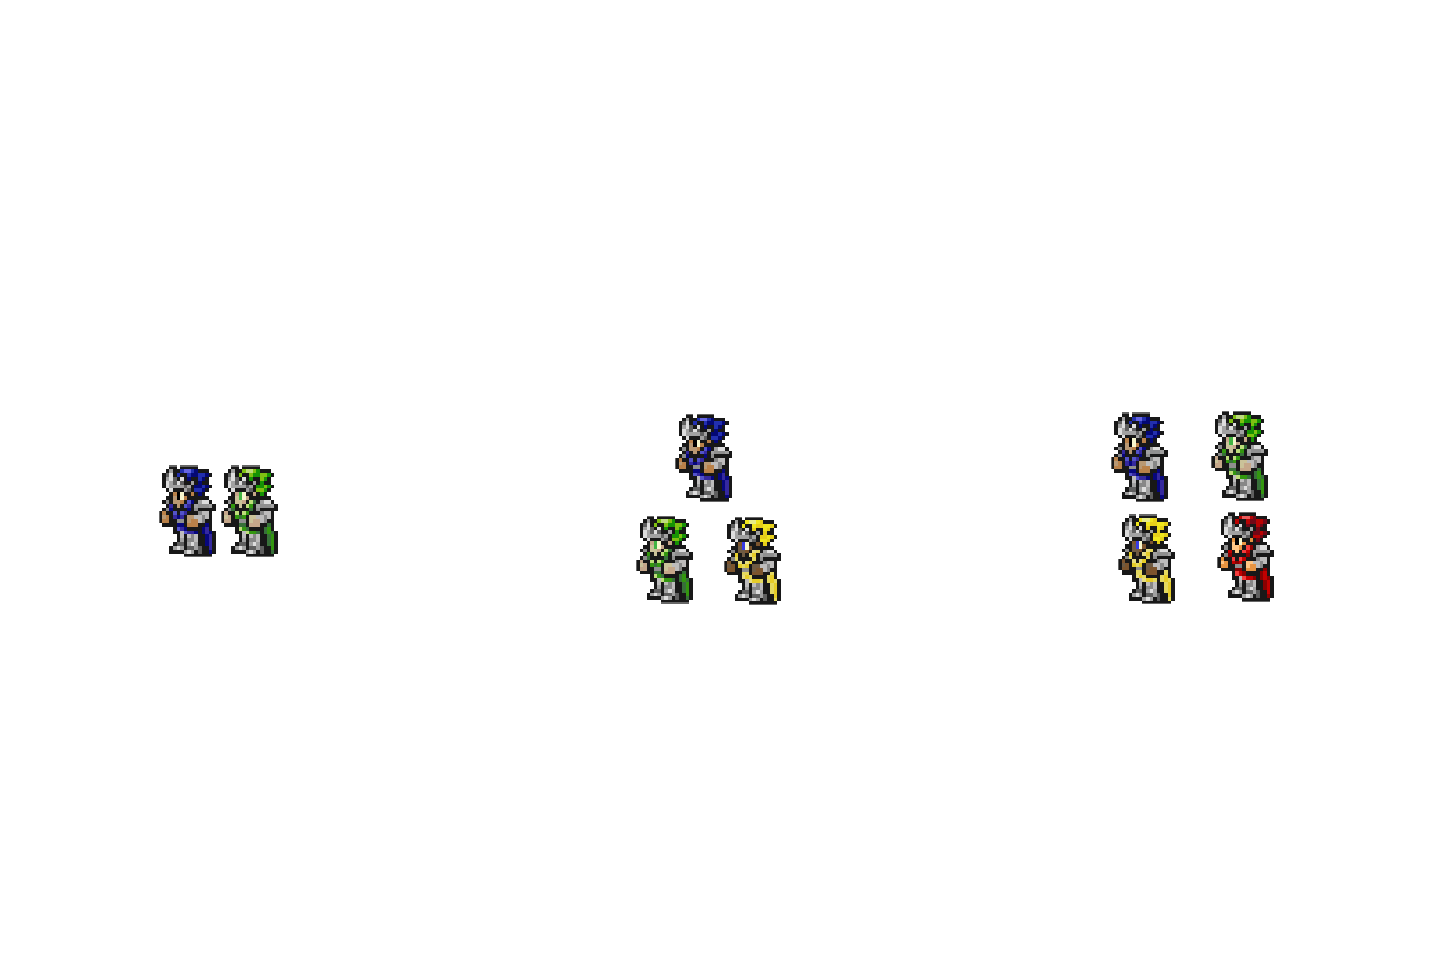
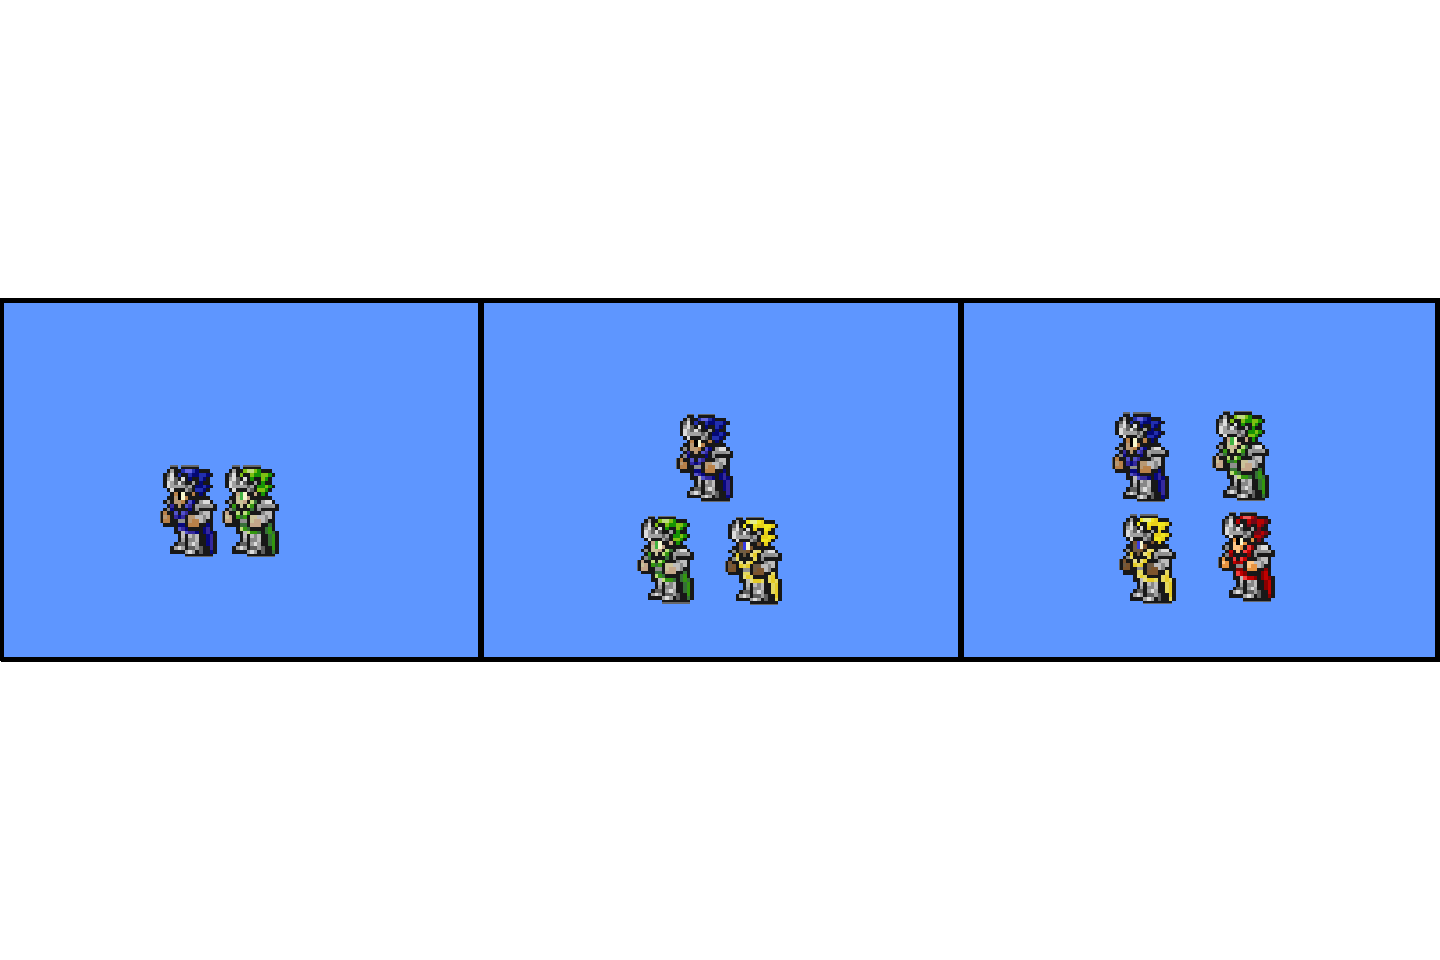
Added main menu, Control screen, made things look more polished

diff --git a/Smackdown/Smackdown/Game1.cs b/Smackdown/Smackdown/Game1.cs
@@ -20,7 +20,7 @@ namespace Smackdown
         enum GameState
         {
             MainMenu,
-            LevelSelection,
+            PlayerSelection,
             Play,
             PauseMenu,
             GameOver,
@@ -31,7 +31,7 @@ namespace Smackdown
         private GameState gameState;
         private GamePadState oldp1gps;
         private List<Player> players;
-        private int numPlayerSelectionIndex;
+        private int highlightIndex;
         private Map map;
 
         private GraphicsDeviceManager graphics;
@@ -43,7 +43,9 @@ namespace Smackdown
 
         private Texture2D emptyTex;
         private Texture2D mainMenuTex;
-        private Texture2D backgroundTexture;
+        private Texture2D playerSelectionTex;
+        private Texture2D controlScreenTex;
+        private Texture2D backgroundTex;
 
         private SoundEffect maintheme;
         private SoundEffect battle1;
@@ -70,7 +72,7 @@ namespace Smackdown
         {
             // TODO: Add your initialization logic here
             gameState = GameState.MainMenu;
-            numPlayerSelectionIndex = 0;
+            highlightIndex = 0;
 
             map = new Map(30, 20);
             map.loadMap(@"Content/maps/testmap2.txt");
@@ -94,10 +96,12 @@ namespace Smackdown
             medFont = Content.Load<SpriteFont>("fonts/SpriteFont2");
             smallFont = Content.Load<SpriteFont>("fonts/SpriteFont3");
 
-            backgroundTexture = Content.Load<Texture2D>("tiles/background1");
+            backgroundTex = Content.Load<Texture2D>("tiles/background1");
             map.spriteSheet = Content.Load<Texture2D>("tiles/tileset");
             emptyTex = Content.Load<Texture2D>("menus/empty");
-            mainMenuTex = Content.Load<Texture2D>("menus/playerSelection");
+            mainMenuTex = Content.Load<Texture2D>("menus/mainMenu");
+            //controlScreenTex = Content.Load<Texture2D>("menus/controls");
+            playerSelectionTex = Content.Load<Texture2D>("menus/playerSelection");
 
             maintheme = Content.Load<SoundEffect>("music/Smackdown Main Theme");
             battle2 = Content.Load<SoundEffect>("music/Smackdown_Battle_Theme_02");
@@ -125,35 +129,78 @@ namespace Smackdown
         {
             //Allows the game to exit
             GamePadState p1gps = GamePad.GetState(PlayerIndex.One);
-            if (p1gps.IsButtonDown(Buttons.LeftShoulder) && p1gps.IsButtonDown(Buttons.RightShoulder))
-                this.Exit();
-            
-            switch(gameState)
+
+            switch (gameState)
             {
                 case GameState.MainMenu:
-                    if (p1gps.IsButtonDown(Buttons.LeftThumbstickRight) && !oldp1gps.IsButtonDown(Buttons.LeftThumbstickRight))
-                        numPlayerSelectionIndex++;
-                    else if (p1gps.IsButtonDown(Buttons.LeftThumbstickLeft) && !oldp1gps.IsButtonDown(Buttons.LeftThumbstickLeft))
-                        numPlayerSelectionIndex += 2;
-                    numPlayerSelectionIndex %= 3;
-                    if (p1gps.IsButtonDown(Buttons.Start))
+                    if (p1gps.IsButtonDown(Buttons.A))
                     {
-                        spawnPlayers(numPlayerSelectionIndex + 2); //accounting for the fact that we're using index for highlighting box                                            
+                        switch (highlightIndex)
+                        {
+                            case 0:
+                                gameState = GameState.PlayerSelection;
+                                break;
+                            case 1:
+                                gameState = GameState.Controls;
+                                break;
+                            case 2:
+                                this.Exit();
+                                break;
+                        }
+                    }
+
+                    else if (p1gps.IsButtonDown(Buttons.LeftThumbstickDown) && !oldp1gps.IsButtonDown(Buttons.LeftThumbstickDown))
+                        highlightIndex++;
+                    else if (p1gps.IsButtonDown(Buttons.LeftThumbstickUp) && !oldp1gps.IsButtonDown(Buttons.LeftThumbstickUp))
+                        highlightIndex += 2;
+
+                    highlightIndex %= 3;
+                    break;
+
+                case GameState.Controls:
+                    if (p1gps.IsButtonDown(Buttons.Back))
+                        gameState = GameState.MainMenu;
+                    break;
+
+                case GameState.PlayerSelection:
+
+                    if (p1gps.IsButtonDown(Buttons.A) && !oldp1gps.IsButtonDown(Buttons.A))
+                    {
+                        spawnPlayers(highlightIndex + 2); //accounting for the fact that we're using index for highlighting box         
+                        highlightIndex = 0;
                         gameState = GameState.Play;
                     }
+                    else if (p1gps.IsButtonDown(Buttons.Back))
+                    {
+                        highlightIndex = 0;
+                        gameState = GameState.MainMenu;
+                    }
+                    else if (p1gps.IsButtonDown(Buttons.LeftThumbstickRight) && !oldp1gps.IsButtonDown(Buttons.LeftThumbstickRight))
+                        highlightIndex++;
+                    else if (p1gps.IsButtonDown(Buttons.LeftThumbstickLeft) && !oldp1gps.IsButtonDown(Buttons.LeftThumbstickLeft))
+                        highlightIndex += 2;
+
+                    highlightIndex %= 3;
                     break;
 
                 case GameState.Play:
                     players.ForEach(player => player.Update(gameTime));
-                    for (int i = 0; i < numPlayerSelectionIndex; i++)
+                    for (int i = 0; i < players.Count; i++)
                         if (GamePad.GetState((PlayerIndex)i).IsButtonDown(Buttons.Back))
                             gameState = GameState.PauseMenu;
                     break;
 
                 case GameState.PauseMenu:
-                    for(int i = 0; i < numPlayerSelectionIndex; i++)
-                        if (GamePad.GetState((PlayerIndex)i).IsButtonDown(Buttons.Start))
+                    for(int i = 0; i < players.Count; i++)
+                    {
+                        GamePadState gps = GamePad.GetState((PlayerIndex)i);
+
+                        if (gps.IsButtonDown(Buttons.Start))
                             gameState = GameState.Play;
+                        else if (gps.IsButtonDown(Buttons.LeftShoulder) && gps.IsButtonDown(Buttons.RightShoulder))
+                            gameState = GameState.MainMenu;
+                    }
+                        
                     break;
 
                 default:
@@ -195,25 +242,40 @@ namespace Smackdown
             switch (gameState)
             {
                 case GameState.MainMenu:
+                    spriteBatch.Draw(backgroundTex, GraphicsDevice.Viewport.Bounds, Color.DarkSlateBlue);
                     spriteBatch.Draw(mainMenuTex, GraphicsDevice.Viewport.Bounds, Color.White);
-                    spriteBatch.Draw(emptyTex, new Rectangle(numPlayerSelectionIndex * 480, 300, 480, 360), Color.SteelBlue*.25f);
-                    spriteBatch.DrawString(medFont, "How Many Fighters?", new Vector2(465, 100), Color.Black);
-                    spriteBatch.DrawString(medFont, "Press start to confirm", new Vector2(400, 800), Color.Black);
+                    spriteBatch.DrawString(medFont, "Play", new Vector2(320, 310), Color.Black);
+                    spriteBatch.DrawString(medFont, "Controls", new Vector2(253, 460), Color.Black);
+                    spriteBatch.DrawString(medFont, "Quit", new Vector2(320, 610), Color.Black);
+                    spriteBatch.Draw(emptyTex, new Rectangle(200, (150*highlightIndex) + 255, 360, 150), Color.DarkBlue * .35f);
+                    break;
+
+                case GameState.Controls:
+                    spriteBatch.Draw(backgroundTex, GraphicsDevice.Viewport.Bounds, Color.DarkSlateBlue);
+                    break;
+
+                case GameState.PlayerSelection:
+                    spriteBatch.Draw(backgroundTex, GraphicsDevice.Viewport.Bounds, Color.DarkSlateBlue);
+                    spriteBatch.Draw(playerSelectionTex, GraphicsDevice.Viewport.Bounds, Color.White);
+                    spriteBatch.Draw(emptyTex, new Rectangle(highlightIndex * 480, 300, 480, 360), Color.DarkBlue * .35f);
+                    spriteBatch.DrawString(medFont, "How Many Fighters?", new Vector2(465, 100), Color.SlateGray);
+                    spriteBatch.DrawString(medFont, "A to confirm, Back to return to Main Menu", new Vector2(180, 800), Color.SlateGray);
                     break;
 
                 case GameState.Play:
-                    spriteBatch.Draw(backgroundTexture, GraphicsDevice.Viewport.Bounds, Color.DarkSlateBlue);
+                    spriteBatch.Draw(backgroundTex, GraphicsDevice.Viewport.Bounds, Color.DarkSlateBlue);
                     map.Draw(spriteBatch);
                     players.ForEach(player => player.Draw(spriteBatch));
                     break;
 
                 case GameState.PauseMenu:
-                    spriteBatch.Draw(backgroundTexture, GraphicsDevice.Viewport.Bounds, Color.DarkSlateBlue);
+                    spriteBatch.Draw(backgroundTex, GraphicsDevice.Viewport.Bounds, Color.DarkSlateBlue);
                     map.Draw(spriteBatch);
                     players.ForEach(player => player.Draw(spriteBatch));
                     spriteBatch.Draw(emptyTex, GraphicsDevice.Viewport.Bounds, Color.Black * 0.65f);
-                    spriteBatch.DrawString(largeFont, "Paused", new Vector2(535, 400), Color.White);
-                    spriteBatch.DrawString(medFont, "Press start to resume", new Vector2(420, 540), Color.White);
+                    spriteBatch.DrawString(largeFont, "Paused", new Vector2(535, 300), Color.SlateGray);
+                    spriteBatch.DrawString(medFont, "Press start to resume", new Vector2(420, 440), Color.SlateGray);
+                    spriteBatch.DrawString(medFont, "Press LB and RB to quit", new Vector2(420, 520), Color.SlateGray);
                     break;
             }
 
